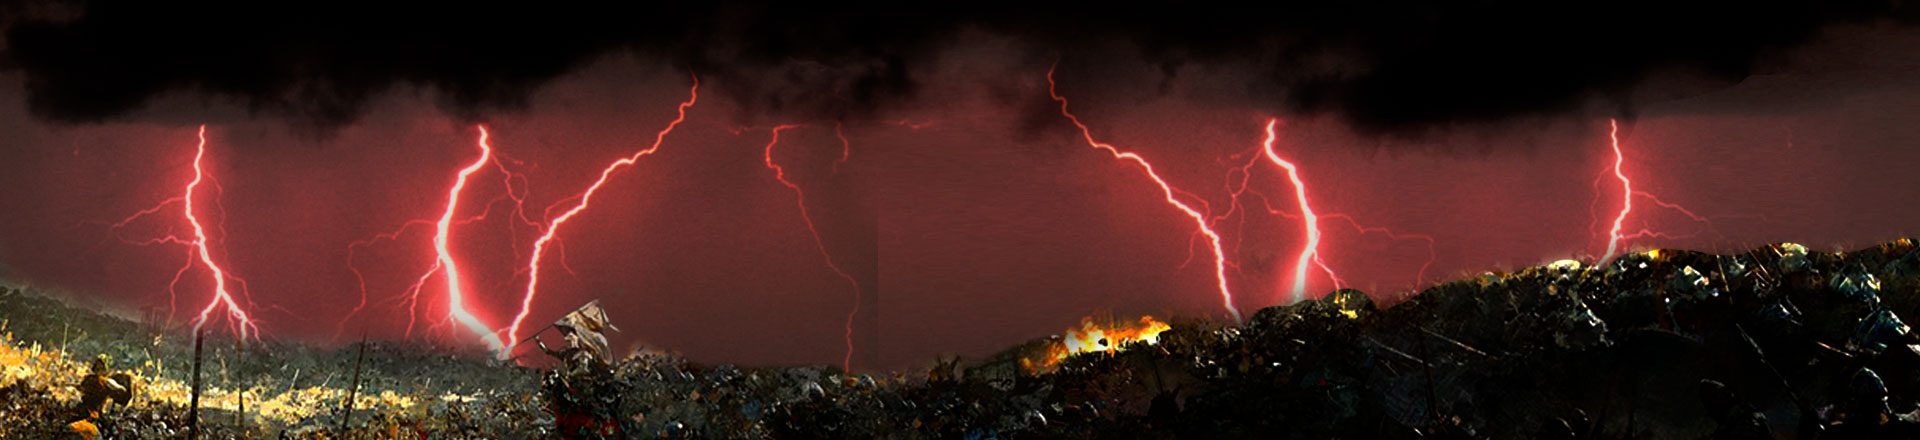
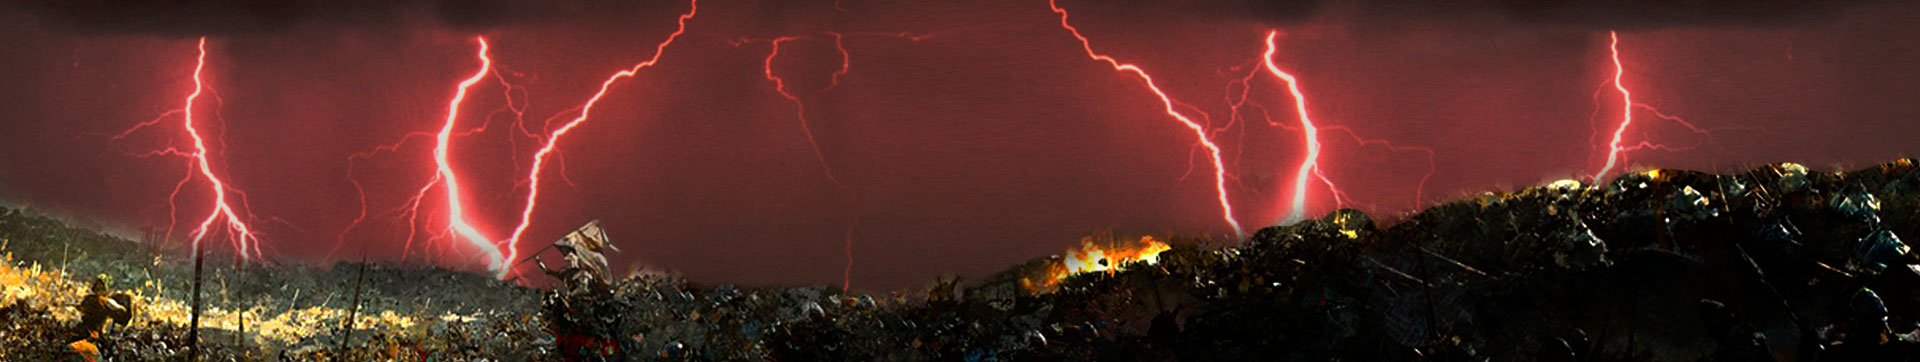
ps editing

diff --git a/app/javascript/hat.vue b/app/javascript/hat.vue
@@ -25,8 +25,8 @@
 @import "_extends";
 .hat {
 	lost-center: $lcenter;
-	lost-utility: edit;
-	height: 220px;
+	/*lost-utility: edit;*/
+	height: 162px;
 }
 .fog {
 	background-repeat: no-repeat;
@@ -37,7 +37,7 @@
 .warriors {
 	background-repeat: no-repeat;
 	background-size: cover;
-	background-position: center -10%;
+	background-position: center -30%;
 	height: 100%;
 	width: 100%;
 	background-image: url('./images/_hat/warriors.gif');
